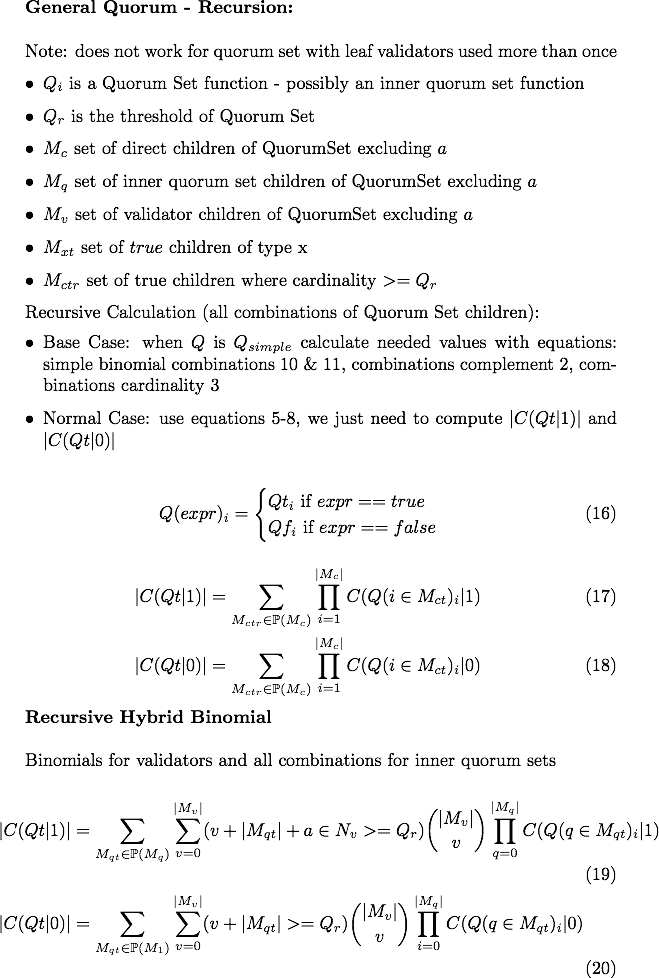
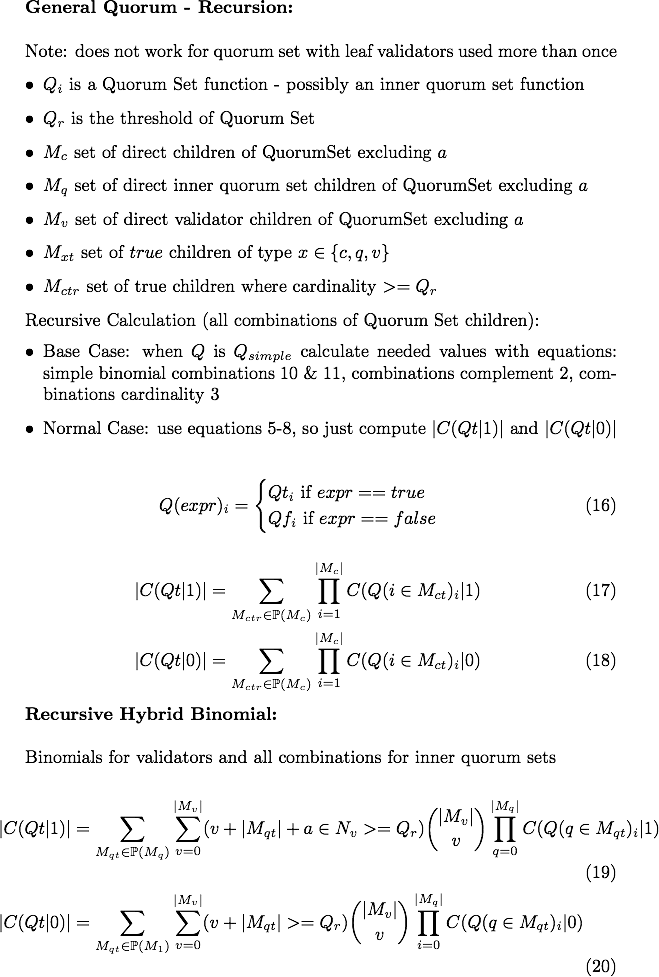
update math

diff --git a/math/math3.tex b/math/math3.tex
@@ -26,9 +26,9 @@ Note: does not work for quorum set with leaf validators used more than once
   \item $Q_i$ is a Quorum Set function - possibly an inner quorum set function
   \item $Q_{r}$ is the threshold of Quorum Set
   \item $M_{c}$ set of direct children of QuorumSet excluding $a$
-  \item $M_{q}$ set of inner quorum set children of QuorumSet excluding $a$
-  \item $M_{v}$ set of validator children of QuorumSet excluding $a$
-  \item $M_{xt}$ set of $true$ children of type x
+  \item $M_{q}$ set of direct inner quorum set children of QuorumSet excluding $a$
+  \item $M_{v}$ set of direct validator children of QuorumSet excluding $a$
+  \item $M_{xt}$ set of $true$ children of type $x \in \{c,q,v\}$
   \item $M_{ctr}$ set of true children where cardinality $>=Q_r$
 \end{itemize}
 
@@ -40,7 +40,7 @@ Recursive Calculation (all combinations of Quorum Set children):
     simple binomial combinations 10 \& 11,
     combinations complement 2,
     combinations cardinality 3
-  \item Normal Case: use equations 5-8, we just need to compute
+  \item Normal Case: use equations 5-8, so just compute
     $\cardinality{C(Qt|1)}$ and $\cardinality{C(Qt|0)}$
 \end{itemize}
 
@@ -67,7 +67,7 @@ Recursive Calculation (all combinations of Quorum Set children):
 \end{align}
 
 
-\textbf{Recursive Hybrid Binomial}\\\par
+\textbf{Recursive Hybrid Binomial:}\\\par
 Binomials for validators and all combinations for inner quorum sets
 
 
@@ -87,6 +87,7 @@ Binomials for validators and all combinations for inner quorum sets
            \binom{ \cardinality{M_v} }{ v }
            \prod_{i=0}^{ \cardinality{M_q} } C(Q(q \in M_{qt})_i|0)
 \end{align}
+
 
 
 

diff --git a/math/math2.tex b/math/math2.tex
@@ -23,11 +23,12 @@
 
 
 \textbf{Simple Quorum:}\\\par
-$Q_{simple}(r,n,n_t)$ is a Quorum Set function that without inner quorum sets
+$Q_{simple}(r,n,n_t)$ is a Quorum Set function with no inner quorum sets
 \begin{itemize}
   \item $r$ is the threshold for $Q_{simple}$ to be $true$
-  \item $n$ the count of nodes referenced by the Quorum Set
-  \item $m = n-1$, the count of nodes excluding $a$
+  \item $n$ is the count of nodes referenced by the Quorum Set
+  \item $n_t$ is the count of true nodes referenced by the Quorum Set
+  \item $m = n-1$, is the count of nodes excluding $a$
 \end{itemize}
 
 \begin{equation}
@@ -44,9 +45,10 @@ Impact Metrics:
 \begin{align}
   Effected(a,Q_{simple}(r,n,n_t)) &= \simpleCombinations \\
   Affect(a,Q_{simple}(r,n,n_t)) &= \frac{ \simpleCombinations{} }{ 2^m } \\
-  Required(a,Q_{simple}(r,n,n_t)) &= \frac{ \simpleCombinations{} }{ \sum_{i=(r-1)}^{m} \binom{m}{i} } \\
+  Require(a,Q_{simple}(r,n,n_t)) &= \frac{ \simpleCombinations{} }{ \sum_{i=(r-1)}^{m} \binom{m}{i} } \\
   Influence(a,Q_{simple}(r,n,n_t)) &= \frac{ \simpleCombinations{} }{ \sum_{i=0}^{r-1} \binom{m}{i} }
 \end{align}
+
 
 
 

diff --git a/math/math1.tex b/math/math1.tex
@@ -17,7 +17,7 @@
 
 
 \textbf{General Quorum:}\\\par
-$Q(N_t) \Rightarrow \{0,1\}$ is a general (potentially nested) Quorum Set function
+$Q(N_{vt}) \Rightarrow \{0,1\}$ is a general (potentially nested) Quorum Set function
 
 \begin{itemize}
   \item $N$ is the set of all nodes referenced by Quorum Set
@@ -75,6 +75,7 @@ Impact Metrics:
   Require(a,Q) &= \frac{Effected(a,Q)}{\tgt} \\
   Influence(a,Q) &= \frac{Effected(a,Q)}{\fgf}
 \end{align}
+
 
 
 
